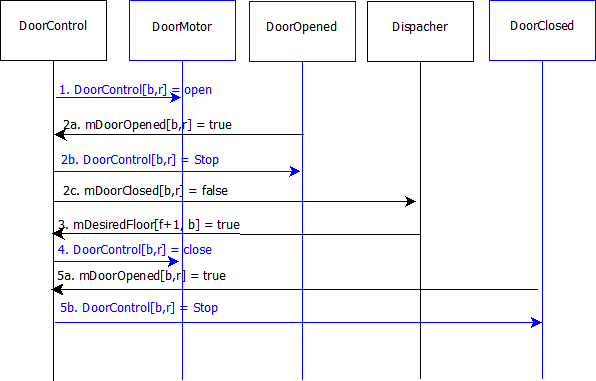
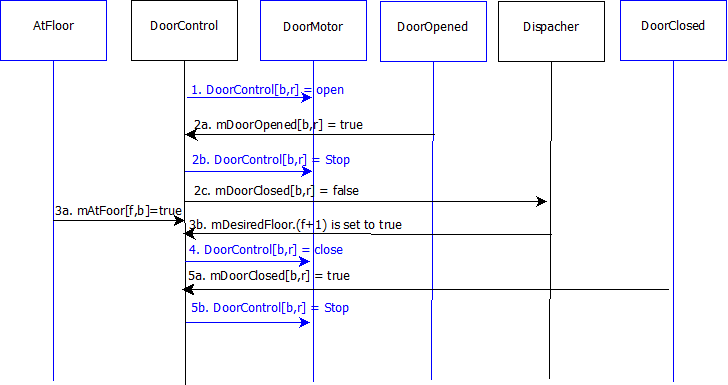
edir scen 9 and diagram according to review

diff --git a/scen_sd/scen_sd.html b/scen_sd/scen_sd.html
@@ -618,7 +618,7 @@
       <ol start="1" type="1">
         <li>Door[<b>b</b>,<b>r</b>] starts opening. </li>
         <li>Door[<b>b</b>,<b>r</b>] completes opening. </li>
-        <li>mDesiredFloor[<b>f</b>+1,<b>b</b>] is true . </li>
+        <li>mDesiredFloor[<b>f</b>+1,<b>b</b>] is set to <b>True</b> . </li>
         <li>Door[<b>b</b>,<b>r</b>] starts closing. </li>
         <li>Door[<b>b</b>,<b>r</b>] completes closing. </li>
       </ol>
